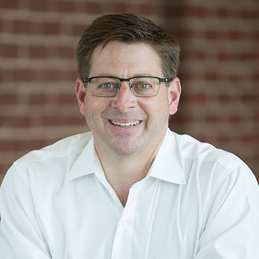
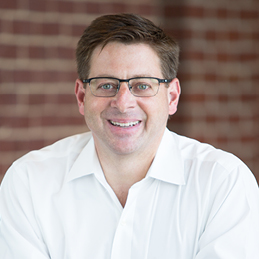
updated headshots, lines for timeline, subhead styling per courtney

diff --git a/source/assets/javascripts/components/capabilities/CapabilityDetails.js b/source/assets/javascripts/components/capabilities/CapabilityDetails.js
@@ -2,53 +2,53 @@ import React, { Component } from 'react';
 
 class CapabilityDetails extends Component {
 	render() {
-		const { 
-			item, 
-			selectedCapability, 
-			dismissCapability, 
+		const {
+			item,
+			selectedCapability,
+			dismissCapability,
 			itemKey } = this.props;
 		return (
-			<article 
-				className={`${selectedCapability === itemKey ? 'active' : 'inactive'} 
+			<article
+				className={`${selectedCapability === itemKey ? 'active' : 'inactive'}
 				content__item`}>
         <div className="row content__item__heading">
           <div className="col-xs-12">
             <div className="cap-icon-title">
-							<img 
-								src={`/assets/images/capabilities/${item.icon}-color.png`} 
-								className="capabilities-icon center-block" 
+							<img
+								src={`/assets/images/capabilities/${item.icon}-color.png`}
+								className="capabilities-icon center-block"
 								alt="Demand generation color" />
 							<div className="loader"></div>
 							<h3 className="title title--full">{item.name}</h3>
 						</div>
 					</div>
-					<button 
-						onClick={() => {dismissCapability()}} 
+					<button
+						onClick={() => {dismissCapability()}}
 						className="close-button close-button--show pull-right">
-						<svg 
-							version="1.1" 
-							viewport="0 0 25 25" 
+						<svg
+							version="1.1"
+							viewport="0 0 25 25"
 							xmlns="http://www.w3.org/2000/svg">
-							<line strokeWidth={2} stroke="#888" 
+							<line strokeWidth={2} stroke="#888"
 								x1={1} x2={25} y1={25} y2={1}>/</line>
-							<line strokeWidth={2} stroke="#888" 
+							<line strokeWidth={2} stroke="#888"
 								x1={1} x2={25} y1={1} y2={25}>/</line>
 						</svg>
 					</button>
           <div className="col-xs-12 col-sm-6 col-sm-offset-3">
-						<p className="text-xs-center text-muted title--subhead 
+						<p className="text-xs-center text-muted title--subhead
 							body-copy-small">
               {item.subhead}
             </p>
           </div>
         </div>
 				<div className="cap-details row">
-					<div 
-						dangerouslySetInnerHTML={{__html: item.description}} 
+					<div
+						dangerouslySetInnerHTML={{__html: item.description}}
 						className="col-xs-12 col-md-6 cap-summary body-copy-small">
 					</div>
 					<div className="col-md-6 col-xs-12 cap-action-items">
-						<div className="highlighted-content-box">
+						<div className="subhead-content-box-capabilities">
 							<div className="cap-action-items__heading">
 								{item.listhead}:
 							</div>

diff --git a/source/assets/stylesheets/base/_typography.sass b/source/assets/stylesheets/base/_typography.sass
@@ -130,6 +130,7 @@ $break-home-sm: 421px
   opacity: 0.9
   font-size: 18px
   text-transform: uppercase
+  margin-bottom: 10px
   @media screen and (max-width: $break-sm)
     font-size: 16px
 
@@ -216,7 +217,7 @@ $break-home-sm: 421px
   @media screen and (max-width: $break-sm)
     font-size: 22px
 
-.subhead-content-box
+.subhead-content-box, .subhead-content-box-capabilities
   position: relative
   margin-bottom: 40px
   ::after
@@ -225,6 +226,9 @@ $break-home-sm: 421px
     width: 80px
     padding-bottom: 10px
     border-bottom: 2px solid #ff3301
+
+.subhead-content-box-capabilities
+  margin-bottom: 20px
 
 .resource-name
   font-family: $Lora

diff --git a/source/assets/stylesheets/components/_timeline.sass b/source/assets/stylesheets/components/_timeline.sass
@@ -45,7 +45,7 @@
 .timeline > li > .timeline-panel
   width: 46%
   float: left
-  border: 2px solid #d4d4d4
+  border: 1px solid #d4d4d4
   border-radius: 0
   padding: 20px
   position: relative
@@ -57,8 +57,8 @@
   right: -15px
   display: inline-block
   border-top: 15px solid transparent
-  border-left: 15px solid #ccc
-  border-right: 0 solid #ccc
+  border-left: 15px solid #d4d4d4
+  border-right: 0 solid #d4d4d4
   border-bottom: 15px solid transparent
   content: " "
 

diff --git a/source/assets/javascripts/components/services/FilterList.js b/source/assets/javascripts/components/services/FilterList.js
@@ -6,7 +6,7 @@ const FilterList = ({ onToggleFilters, onFilterSelect, selectedFilters }) => {
 	return (
 		<div className="row">
 			<div className="col-xs-12">
-				<div className="subhead filter-header"> What keeps you awake at night? </div>
+				<div className="subhead-saturated filter-header"> What keeps you awake at night? </div>
 				<div className="filter-list">
 					{ServicesFilters.map(filter => {
 						return (
